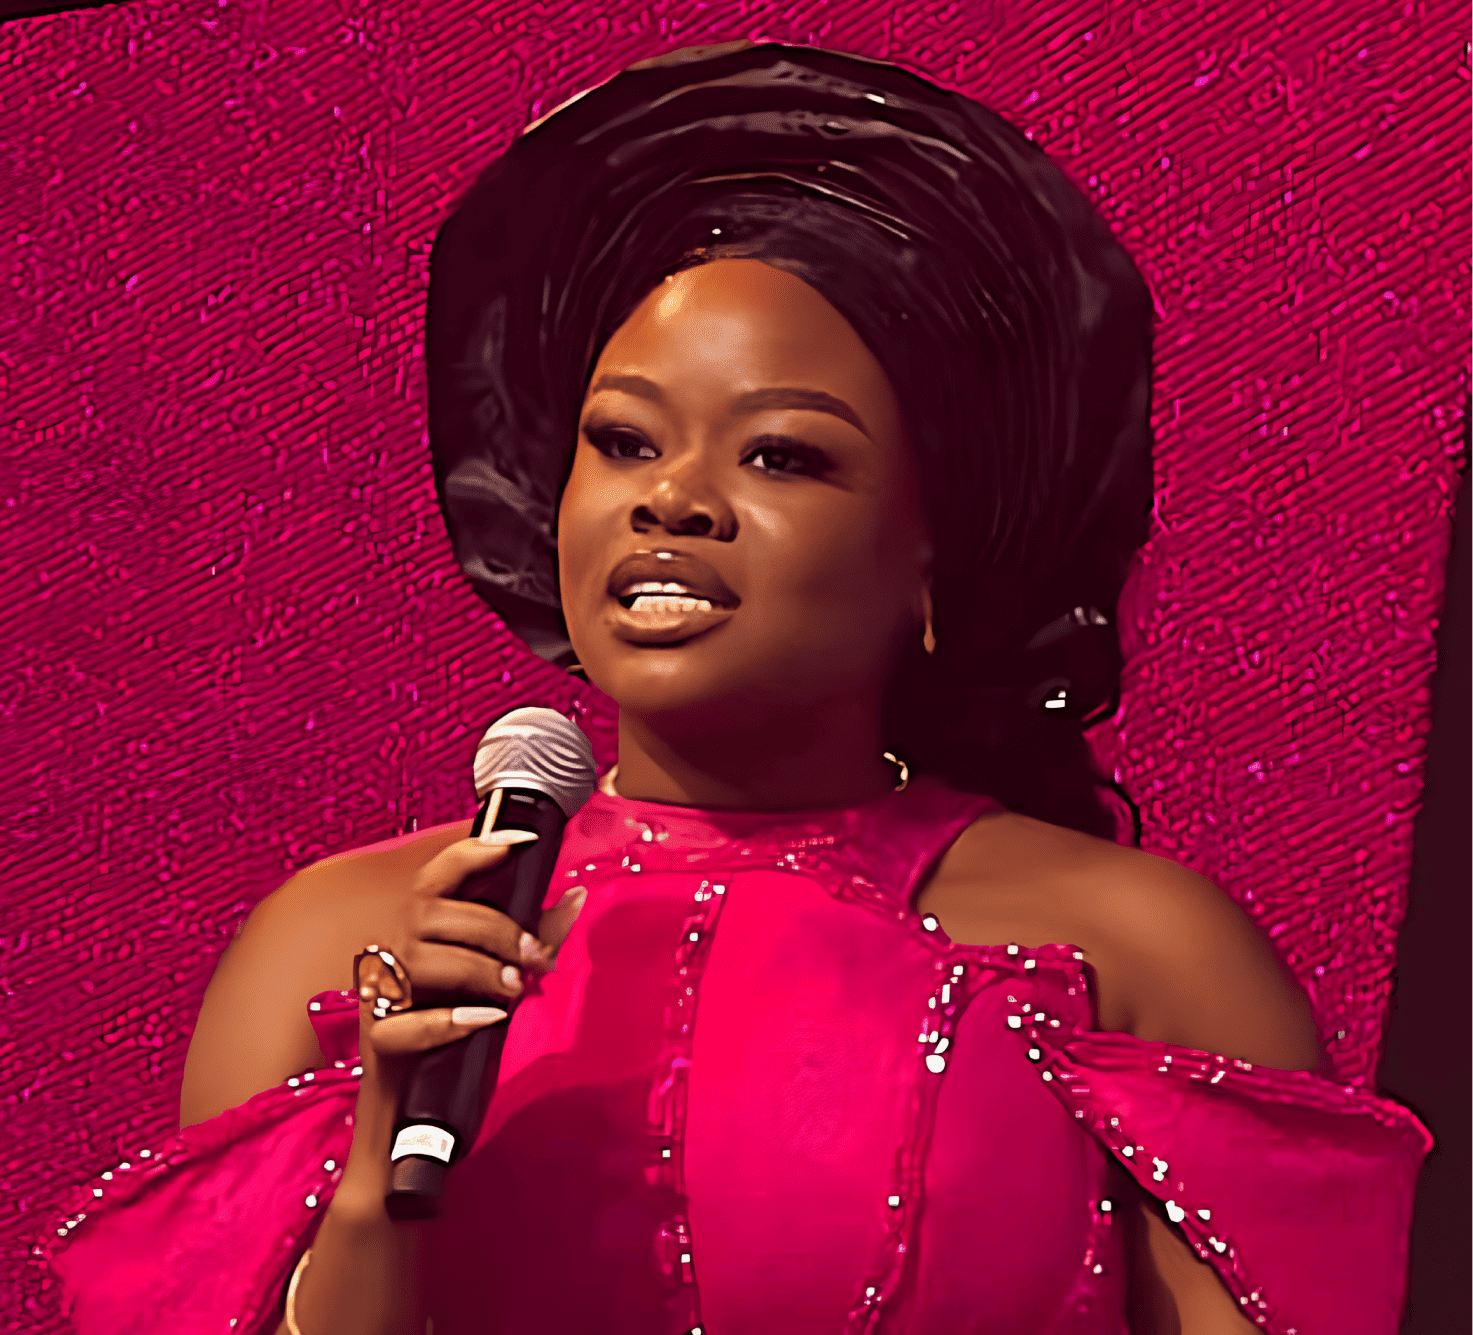
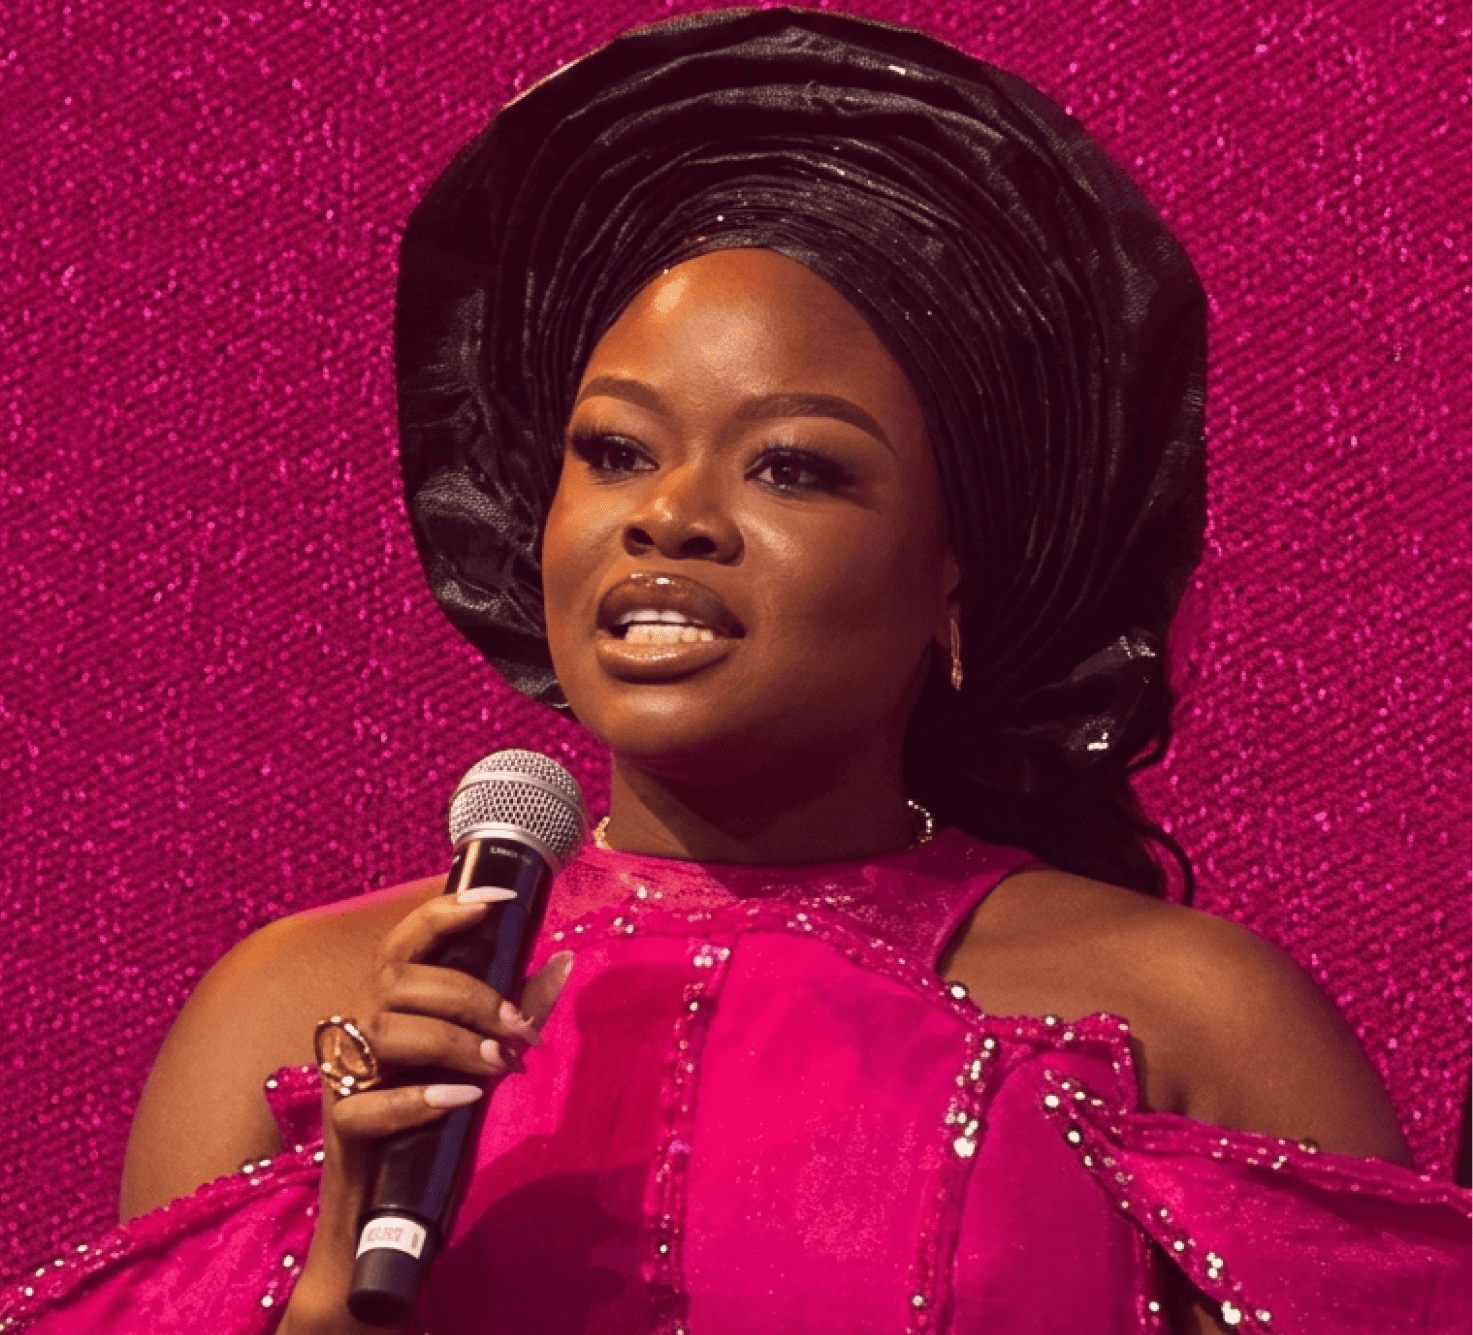
update

diff --git a/src/components/home/Testimonials.tsx b/src/components/home/Testimonials.tsx
@@ -54,12 +54,12 @@ const testimonials: Testimonial[] = [
     bandColor: "#A9849E",
     textColor: "#5C0335",
     tilt: true,
-    customClass: "pr-[55.03px]",
+    customClass: "pr-12",
   },
 
   {
     paragraphs: [
-      "My experience at the SCA Summit was everything and more. From the hall ambience to the conversations, the summit truly embodied the message it was sharing and opened my eyes to what is possible for women in tech. The insightful panels, keynote sessions, and especially Ada's keynote reignited my drive and reminded me why I continue to pursue a future in tech. Seeing fellow undergraduates and women like myself take the stage to share their work and impact was equally inspiring.",
+      "My experience at the SCA Summit was everything and more. From the hall ambience to the conversations, the summit truly embodied the message it was sharing and opened my eyes to what is possible for women in tech. The insightful panels, keynote sessions, and especially Ada’s keynote reignited my drive and reminded me why I continue to pursue a future in tech. Seeing fellow undergraduates and women like myself take the stage to share their work and impact was equally inspiring.",
       "One of my highlights was the hiring room, where recruiters were ready to connect with and hire talent. I had one of the most amazing 10-minute interviews, which boosted my confidence and reminded me of the opportunities ahead. Beyond the sessions, it was beautiful to celebrate, connect, and share space with fellow women in tech.",
     ],
     name: "Elizabeth Ogunmola",
@@ -67,6 +67,7 @@ const testimonials: Testimonial[] = [
     quoteColor: "#D0F07A",
     bandColor: "#8FAB4F",
     textColor: "#0F3D1F",
+    customClass: " pr-5",
   },
   {
     paragraphs: [
@@ -112,10 +113,10 @@ const TestimonialCard = ({
   bandColor,
   textColor,
   tilt,
-  customClass,
+  customClass = "",
 }: Testimonial) => (
   <div
-    className="relative h-full w-full max-w-100 min-h-100 overflow-hidden rounded-[26px]"
+    className="relative w-full max-w-100 h-100 overflow-hidden rounded-[26px]"
     style={{ backgroundColor: cardBg }}
   >
     {/* big quote mark (color comes from the inline style, not a Tailwind class) */}
@@ -135,15 +136,15 @@ const TestimonialCard = ({
     />
 
     <div
-      className={`relative flex h-full flex-col  gap-8 px-8 py-12 ${
+      className={`relative flex h-full flex-col  gap-3 pl-5  pb-5 pt-10 ${
         tilt ? "-rotate-1" : ""
       }`}
     >
-      <div className={`space-y-5  ${customClass ? customClass : "pr-6"}`}>
+      <div className={`space-y-3  ${customClass ? customClass : "pr-8"}`}>
         {paragraphs.map((text, idx) => (
           <p
             key={idx}
-            className="font-sans text-sm font-medium leading-[1.35]"
+            className="font-sans text-sm font-medium w-full leading-[1.35]"
             style={{ color: textColor }}
           >
             {text}
